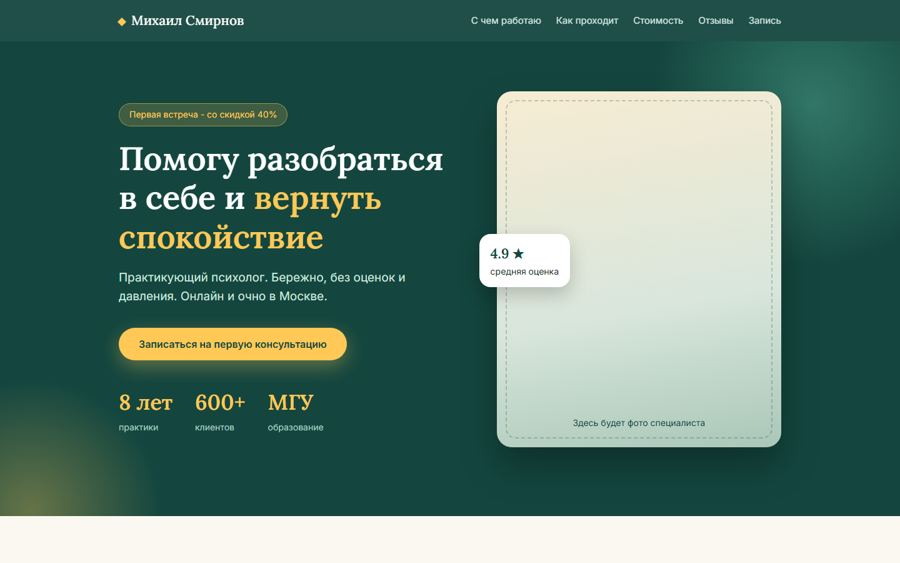
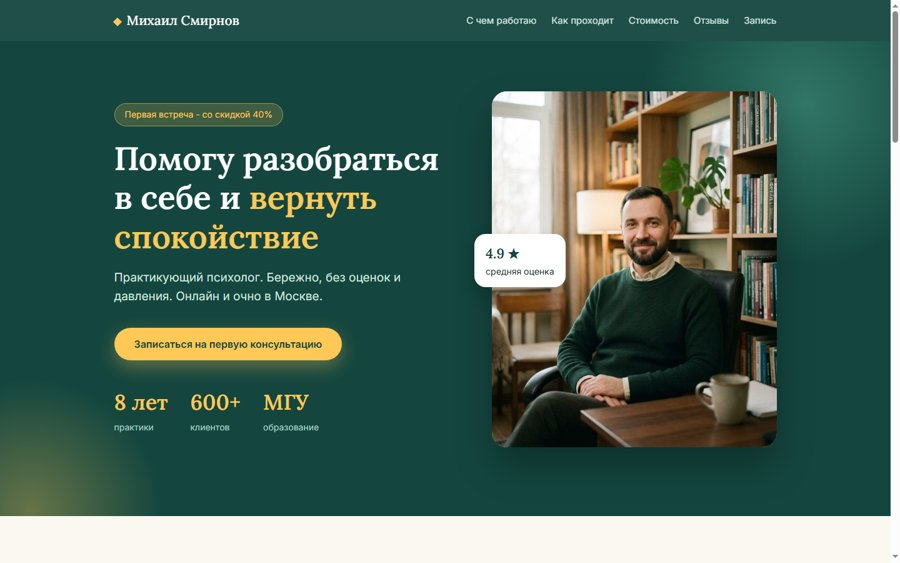
Psychologist demos: photos, no placeholder phone, consent text

diff --git a/psy-konsultaciya/index.html b/psy-konsultaciya/index.html
@@ -25,7 +25,7 @@ nav a{color:#cfe7df;text-decoration:none;margin-left:24px;font-size:15px}nav a:h
 .hero h1{font-size:52px;margin-bottom:20px}.hero h1 em{font-style:normal;color:var(--sun)}
 .hero p{color:#cfe7df;font-size:19px;margin-bottom:34px}
 .photo{color:#14463f !important;aspect-ratio:4/5;border-radius:200px 200px 32px 32px;background:linear-gradient(170deg,#f7ecd2,#d9e6dc 60%,#a9c7b8);display:flex;align-items:flex-end;justify-content:center;padding:28px;color:#fff;font-size:14px;position:relative;box-shadow:0 30px 60px rgba(0,0,0,.3)}
-.photo::before{content:"";position:absolute;inset:14px;border:2px dashed rgba(20,70,63,.25);border-radius:190px 190px 24px 24px}
+.photo img{position:absolute;inset:0;width:100%;height:100%;object-fit:cover;border-radius:inherit}.photo .badge{z-index:1}
 .badge{position:absolute;left:-28px;top:40%;background:#fff;color:var(--ink);border-radius:18px;padding:14px 18px;font-size:14px;box-shadow:0 12px 30px rgba(0,0,0,.2)}.badge b{color:var(--deep);font-size:22px;display:block;font-family:Lora,serif}
 .facts{display:flex;gap:36px;margin-top:40px}
 .facts b{display:block;font-family:Lora,serif;font-size:34px;color:var(--sun)}.facts span{font-size:14px;color:#a9cfc3}
@@ -77,7 +77,7 @@ footer .wrap{display:flex;justify-content:space-between;flex-wrap:wrap;gap:12px}
   <a href="#form" class="btn">Записаться на первую консультацию</a>
   <div class="facts"><div><b>8 лет</b><span>практики</span></div><div><b>600+</b><span>клиентов</span></div><div><b>МГУ</b><span>образование</span></div></div>
  </div>
- <div class="photo"><div class="badge"><b>4.9 ★</b>средняя оценка</div>Здесь будет фото специалиста</div>
+ <div class="photo"><div class="badge"><b>4.9 ★</b>средняя оценка</div><img src="photo.jpg" alt="Анна Смирнова, психолог"></div>
 </div></div>
 
 <section id="help"><div class="wrap">
@@ -128,14 +128,14 @@ footer .wrap{display:flex;justify-content:space-between;flex-wrap:wrap;gap:12px}
    <input name="phone" type="tel" placeholder="Телефон или @telegram" required>
    <select name="format"><option>Онлайн</option><option>Очно в Москве</option></select>
    <textarea name="msg" rows="3" placeholder="Коротко о запросе (необязательно)"></textarea>
-   <label class="ok"><input type="checkbox" required> Согласна(сен) на обработку персональных данных</label>
+   <label class="ok"><input type="checkbox" required> Согласна / согласен на обработку персональных данных</label>
    <button class="btn">Отправить заявку</button>
   </form>
   <div class="done" id="done"><h3>Спасибо!</h3><p>Заявка принята. Свяжусь с вами в ближайшее время.</p></div>
  </div>
 </div></div></section>
 
-<footer><div class="wrap"><span>© 2026 Анна Смирнова, психолог</span><span><a href="#">Telegram</a> · <a href="#">WhatsApp</a> · +7 900 000-00-00</span></div></footer>
+<footer><div class="wrap"><span>© 2026 Анна Смирнова, психолог</span><span><a href="#">Telegram</a> · <a href="#">WhatsApp</a></span></div></footer>
 
 <script>
 document.getElementById('f').addEventListener('submit',e=>{

diff --git a/psy-mikhail/index.html b/psy-mikhail/index.html
@@ -25,7 +25,7 @@ nav a{color:#cfe7df;text-decoration:none;margin-left:24px;font-size:15px}nav a:h
 .hero h1{font-size:52px;margin-bottom:20px}.hero h1 em{font-style:normal;color:var(--sun)}
 .hero p{color:#cfe7df;font-size:19px;margin-bottom:34px}
 .photo{color:#14463f !important;aspect-ratio:4/5;border-radius:24px;background:linear-gradient(170deg,#f7ecd2,#d9e6dc 60%,#a9c7b8);display:flex;align-items:flex-end;justify-content:center;padding:28px;color:#fff;font-size:14px;position:relative;box-shadow:0 30px 60px rgba(0,0,0,.3)}
-.photo::before{content:"";position:absolute;inset:14px;border:2px dashed rgba(20,70,63,.25);border-radius:16px}
+.photo img{position:absolute;inset:0;width:100%;height:100%;object-fit:cover;border-radius:inherit}.photo .badge{z-index:1}
 .badge{position:absolute;left:-28px;top:40%;background:#fff;color:var(--ink);border-radius:18px;padding:14px 18px;font-size:14px;box-shadow:0 12px 30px rgba(0,0,0,.2)}.badge b{color:var(--deep);font-size:22px;display:block;font-family:Lora,serif}
 .facts{display:flex;gap:36px;margin-top:40px}
 .facts b{display:block;font-family:Lora,serif;font-size:34px;color:var(--sun)}.facts span{font-size:14px;color:#a9cfc3}
@@ -77,7 +77,7 @@ footer .wrap{display:flex;justify-content:space-between;flex-wrap:wrap;gap:12px}
   <a href="#form" class="btn">Записаться на первую консультацию</a>
   <div class="facts"><div><b>8 лет</b><span>практики</span></div><div><b>600+</b><span>клиентов</span></div><div><b>МГУ</b><span>образование</span></div></div>
  </div>
- <div class="photo"><div class="badge"><b>4.9 ★</b>средняя оценка</div>Здесь будет фото специалиста</div>
+ <div class="photo"><div class="badge"><b>4.9 ★</b>средняя оценка</div><img src="photo.jpg" alt="Михаил Смирнов, психолог"></div>
 </div></div>
 
 <section id="help"><div class="wrap">
@@ -128,14 +128,14 @@ footer .wrap{display:flex;justify-content:space-between;flex-wrap:wrap;gap:12px}
    <input name="phone" type="tel" placeholder="Телефон или @telegram" required>
    <select name="format"><option>Онлайн</option><option>Очно в Москве</option></select>
    <textarea name="msg" rows="3" placeholder="Коротко о запросе (необязательно)"></textarea>
-   <label class="ok"><input type="checkbox" required> Согласен(на) на обработку персональных данных</label>
+   <label class="ok"><input type="checkbox" required> Согласен / согласна на обработку персональных данных</label>
    <button class="btn">Отправить заявку</button>
   </form>
   <div class="done" id="done"><h3>Спасибо!</h3><p>Заявка принята. Свяжусь с вами в ближайшее время.</p></div>
  </div>
 </div></div></section>
 
-<footer><div class="wrap"><span>© 2026 Михаил Смирнов, психолог</span><span><a href="#">Telegram</a> · <a href="#">WhatsApp</a> · +7 900 000-00-00</span></div></footer>
+<footer><div class="wrap"><span>© 2026 Михаил Смирнов, психолог</span><span><a href="#">Telegram</a> · <a href="#">WhatsApp</a></span></div></footer>
 
 <script>
 document.getElementById('f').addEventListener('submit',e=>{
